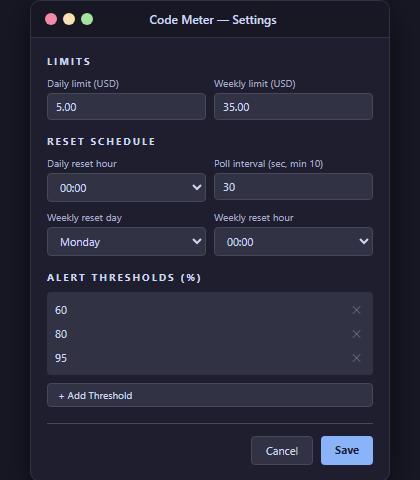
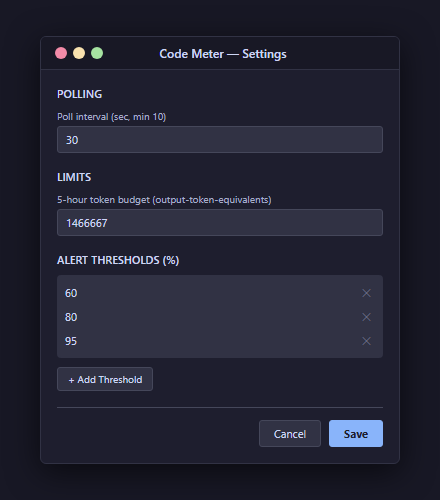
docs: regenerate screenshots for 5-hour rolling window UI
Updates all four screenshot mocks to match the current app:
- popup: single 5-hour meter (37%) with reset countdown, removes daily/weekly rows
- settings: POLLING + LIMITS (token budget) + ALERT THRESHOLDS sections, removes daily/weekly limit fields and reset schedule
- toast: "5-hour limit at 80%" with reset countdown, removes "Resets at 12:00 AM"
- tray-states: updated caption to "5-Hour Window"

Also adds source HTML mocks and capture-local.mjs (file:// based, no dev server needed).

diff --git a/docs/screenshots/src/settings.html b/docs/screenshots/src/settings.html
@@ -1,0 +1,76 @@
+<!DOCTYPE html>
+<html>
+<head>
+<meta charset="utf-8">
+<style>
+  * { margin: 0; padding: 0; box-sizing: border-box; }
+  body { background: #181825; display: flex; align-items: center; justify-content: center; min-height: 100vh; font-family: 'Segoe UI', sans-serif; }
+  .window { background: #1e1e2e; border-radius: 6px; width: 360px; box-shadow: 0 8px 32px rgba(0,0,0,0.6); border: 1px solid #313244; overflow: hidden; }
+  .titlebar { background: #181825; padding: 8px 14px; display: flex; align-items: center; justify-content: space-between; border-bottom: 1px solid #313244; }
+  .title { color: #cdd6f4; font-size: 12px; font-weight: 500; }
+  .winbtns { display: flex; gap: 6px; }
+  .wb { width: 12px; height: 12px; border-radius: 50%; }
+  .wb.close { background: #f38ba8; }
+  .wb.min   { background: #f9e2af; }
+  .wb.max   { background: #a6e3a1; }
+  .content { padding: 16px; }
+  .section-header { color: #cdd6f4; font-size: 11px; font-weight: 600; margin: 0 0 8px 0; }
+  .field { margin-bottom: 12px; }
+  .field label { display: block; color: #a6adc8; font-size: 10px; margin-bottom: 3px; }
+  .field input { width: 100%; background: #313244; border: 1px solid #45475a; border-radius: 3px; color: #cdd6f4; padding: 5px 8px; font-size: 11px; font-family: 'Segoe UI', sans-serif; }
+  .limits-section { margin-bottom: 16px; }
+  .thresholds-section { margin-bottom: 8px; }
+  .threshold-box { background: #313244; border-radius: 4px; padding: 8px; margin-bottom: 8px; max-height: 100px; overflow: hidden; }
+  .threshold-row { display: flex; align-items: center; gap: 6px; margin-bottom: 5px; }
+  .threshold-row:last-child { margin-bottom: 0; }
+  .threshold-row input { flex: 1; background: transparent; border: none; color: #cdd6f4; font-size: 11px; padding: 2px 0; font-family: 'Segoe UI', sans-serif; outline: none; }
+  .threshold-row .rm { color: #6c7086; font-size: 11px; cursor: pointer; padding: 0 4px; }
+  .add-btn { display: inline-block; background: #313244; border: 1px solid #45475a; color: #cdd6f4; font-size: 10px; padding: 4px 10px; border-radius: 3px; cursor: pointer; margin-bottom: 16px; }
+  .divider { border: none; border-top: 1px solid #45475a; margin: 0 0 12px; }
+  .footer-btns { display: flex; justify-content: flex-end; gap: 8px; }
+  .btn-cancel { background: #313244; border: 1px solid #45475a; color: #cdd6f4; font-size: 11px; padding: 5px 14px; border-radius: 3px; cursor: pointer; }
+  .btn-save { background: #89b4fa; border: 1px solid #89b4fa; color: #1e1e2e; font-size: 11px; font-weight: 700; padding: 5px 14px; border-radius: 3px; cursor: pointer; }
+</style>
+</head>
+<body>
+<div class="window">
+  <div class="titlebar">
+    <div class="winbtns">
+      <div class="wb close"></div>
+      <div class="wb min"></div>
+      <div class="wb max"></div>
+    </div>
+    <div class="title">Code Meter — Settings</div>
+    <div style="width:42px"></div>
+  </div>
+
+  <div class="content">
+    <div class="section-header">POLLING</div>
+    <div class="field" style="margin-bottom:16px">
+      <label>Poll interval (sec, min 10)</label>
+      <input value="30">
+    </div>
+
+    <div class="section-header">LIMITS</div>
+    <div class="field limits-section">
+      <label>5-hour token budget (output-token-equivalents)</label>
+      <input value="1466667">
+    </div>
+
+    <div class="section-header thresholds-section">ALERT THRESHOLDS (%)</div>
+    <div class="threshold-box">
+      <div class="threshold-row"><input value="60"><span class="rm">✕</span></div>
+      <div class="threshold-row"><input value="80"><span class="rm">✕</span></div>
+      <div class="threshold-row"><input value="95"><span class="rm">✕</span></div>
+    </div>
+    <div class="add-btn">+ Add Threshold</div>
+
+    <hr class="divider">
+    <div class="footer-btns">
+      <div class="btn-cancel">Cancel</div>
+      <div class="btn-save">Save</div>
+    </div>
+  </div>
+</div>
+</body>
+</html>

diff --git a/docs/screenshots/src/tray-states.html b/docs/screenshots/src/tray-states.html
@@ -1,0 +1,49 @@
+<!DOCTYPE html>
+<html>
+<head>
+<meta charset="utf-8">
+<style>
+  * { margin: 0; padding: 0; box-sizing: border-box; }
+  body { background: #181825; display: flex; align-items: center; justify-content: center; min-height: 100vh; font-family: 'Segoe UI', sans-serif; }
+  .card { background: #1e1e2e; border-radius: 10px; padding: 28px 36px; box-shadow: 0 8px 32px rgba(0,0,0,0.6); border: 1px solid #313244; }
+  h3 { color: #a6adc8; font-size: 10px; font-weight: 700; letter-spacing: 2px; text-transform: uppercase; text-align: center; margin-bottom: 24px; }
+  .states { display: flex; gap: 28px; align-items: flex-end; }
+  .state { display: flex; flex-direction: column; align-items: center; gap: 10px; }
+  .icon { width: 28px; height: 28px; border-radius: 50%; }
+  .green  { background: #a6e3a1; box-shadow: 0 0 10px rgba(166,227,161,0.5); }
+  .yellow { background: #f9e2af; box-shadow: 0 0 10px rgba(249,226,175,0.5); }
+  .red    { background: #f38ba8; box-shadow: 0 0 10px rgba(243,139,168,0.5); }
+  .darkred { background: #8b0000; box-shadow: 0 0 14px rgba(139,0,0,0.7); animation: pulse 1s ease-in-out infinite; }
+  @keyframes pulse { 0%,100% { opacity:1; box-shadow: 0 0 14px rgba(139,0,0,0.7); } 50% { opacity:0.4; box-shadow: 0 0 4px rgba(139,0,0,0.3); } }
+  .range { color: #a6adc8; font-size: 11px; text-align: center; }
+  .band { color: #585b70; font-size: 10px; text-align: center; }
+</style>
+</head>
+<body>
+<div class="card">
+  <h3>5-Hour Window — Tray Icon States</h3>
+  <div class="states">
+    <div class="state">
+      <div class="icon green"></div>
+      <div class="range">0–60%</div>
+      <div class="band">Green</div>
+    </div>
+    <div class="state">
+      <div class="icon yellow"></div>
+      <div class="range">61–89%</div>
+      <div class="band">Yellow</div>
+    </div>
+    <div class="state">
+      <div class="icon red"></div>
+      <div class="range">90–99%</div>
+      <div class="band">Red</div>
+    </div>
+    <div class="state">
+      <div class="icon darkred"></div>
+      <div class="range">100%</div>
+      <div class="band">Pulsing</div>
+    </div>
+  </div>
+</div>
+</body>
+</html>

diff --git a/docs/screenshots/src/popup.html b/docs/screenshots/src/popup.html
@@ -1,0 +1,45 @@
+<!DOCTYPE html>
+<html>
+<head>
+<meta charset="utf-8">
+<style>
+  * { margin: 0; padding: 0; box-sizing: border-box; }
+  body { background: #181825; display: flex; align-items: center; justify-content: center; min-height: 100vh; font-family: 'Segoe UI', sans-serif; }
+  .popup { background: #1e1e2e; border-radius: 10px; padding: 16px; width: 268px; box-shadow: 0 8px 32px rgba(0,0,0,0.6); }
+  .titlebar { display: flex; justify-content: space-between; align-items: center; margin-bottom: 14px; }
+  .title { color: #cdd6f4; font-size: 11px; font-weight: 600; letter-spacing: 0.5px; text-transform: uppercase; }
+  .close { color: #585b70; font-size: 11px; cursor: pointer; padding: 2px 4px; border-radius: 4px; }
+  .row-header { display: flex; justify-content: space-between; align-items: baseline; margin-bottom: 4px; }
+  .label { color: #a6adc8; font-size: 11px; }
+  .pct { color: #f38ba8; font-size: 18px; font-weight: 700; }
+  .track { background: #313244; border-radius: 6px; height: 12px; overflow: hidden; margin-bottom: 4px; }
+  .fill { height: 12px; border-radius: 6px; background: linear-gradient(90deg, #a6e3a1 0%, #f9e2af 60%, #f38ba8 100%); }
+  .reset { color: #585b70; font-size: 10px; margin-bottom: 14px; }
+  .sep { border: none; border-top: 1px solid #313244; margin-bottom: 10px; }
+  .footer { display: flex; justify-content: space-between; align-items: center; }
+  .updated { color: #585b70; font-size: 10px; }
+  .settings { color: #89b4fa; font-size: 10px; cursor: pointer; }
+</style>
+</head>
+<body>
+<div class="popup">
+  <div class="titlebar">
+    <span class="title">Claude Code Usage</span>
+    <span class="close">✕</span>
+  </div>
+
+  <div class="row-header">
+    <span class="label">5-Hour</span>
+    <span class="pct">37%</span>
+  </div>
+  <div class="track"><div class="fill" style="width:37%"></div></div>
+  <div class="reset">Resets in 3 h 42 m</div>
+
+  <hr class="sep">
+  <div class="footer">
+    <span class="updated">Updated 12s ago</span>
+    <span class="settings">⚙ Settings</span>
+  </div>
+</div>
+</body>
+</html>

diff --git a/docs/screenshots/src/toast.html b/docs/screenshots/src/toast.html
@@ -1,0 +1,30 @@
+<!DOCTYPE html>
+<html>
+<head>
+<meta charset="utf-8">
+<style>
+  * { margin: 0; padding: 0; box-sizing: border-box; }
+  body { background: #181825; display: flex; align-items: center; justify-content: center; min-height: 100vh; font-family: 'Segoe UI', sans-serif; }
+  .toast { background: #2a2a3e; border-radius: 8px; padding: 14px 16px; width: 340px; box-shadow: 0 8px 32px rgba(0,0,0,0.7); border: 1px solid #45475a; display: flex; gap: 12px; align-items: flex-start; }
+  .icon-wrap { flex-shrink: 0; }
+  .dot { width: 20px; height: 20px; border-radius: 50%; background: #f38ba8; margin-top: 2px; box-shadow: 0 0 8px rgba(243,139,168,0.6); }
+  .body { flex: 1; }
+  .app { color: #585b70; font-size: 10px; margin-bottom: 4px; display: flex; align-items: center; gap: 5px; }
+  .app-dot { width: 6px; height: 6px; background: #89b4fa; border-radius: 50%; }
+  .title { color: #cdd6f4; font-size: 13px; font-weight: 600; margin-bottom: 3px; }
+  .sub { color: #a6adc8; font-size: 11px; }
+  .time { color: #585b70; font-size: 10px; margin-left: auto; flex-shrink: 0; }
+</style>
+</head>
+<body>
+<div class="toast">
+  <div class="icon-wrap"><div class="dot"></div></div>
+  <div class="body">
+    <div class="app"><div class="app-dot"></div>Code Meter</div>
+    <div class="title">Claude Code — 5-hour limit at 80%</div>
+    <div class="sub">Resets in 1 h 12 m</div>
+  </div>
+  <div class="time">now</div>
+</div>
+</body>
+</html>
